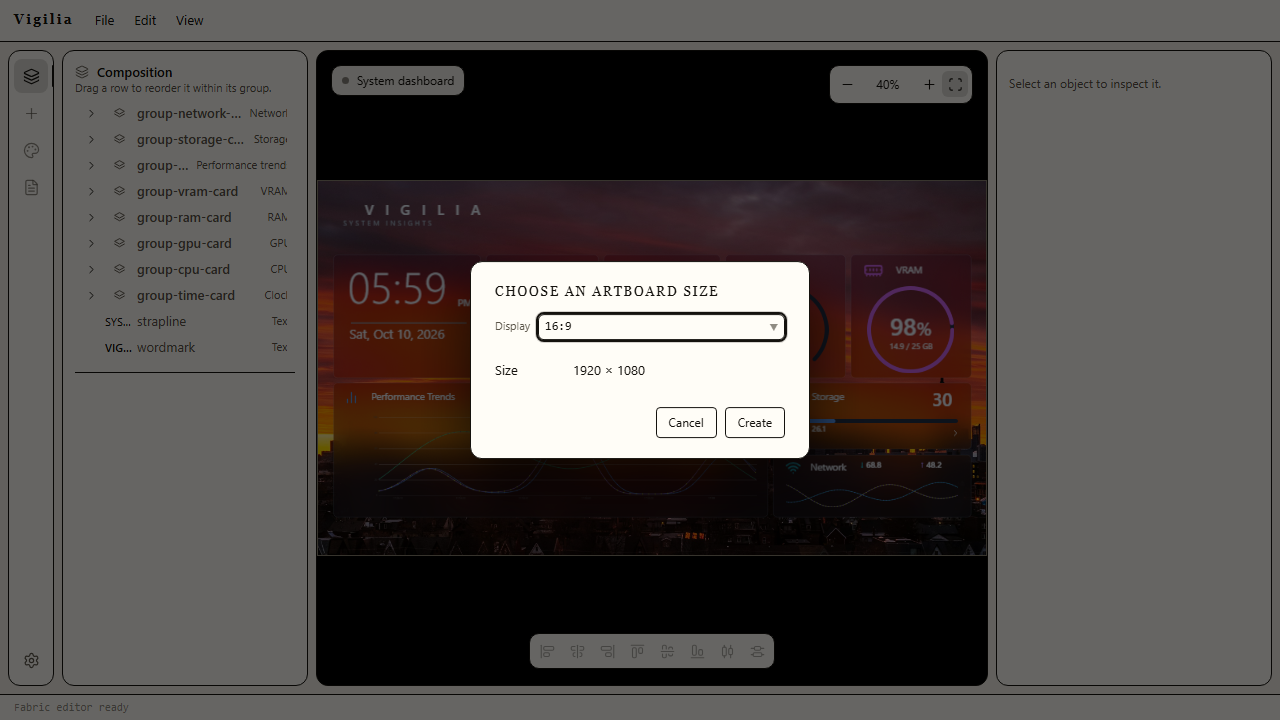
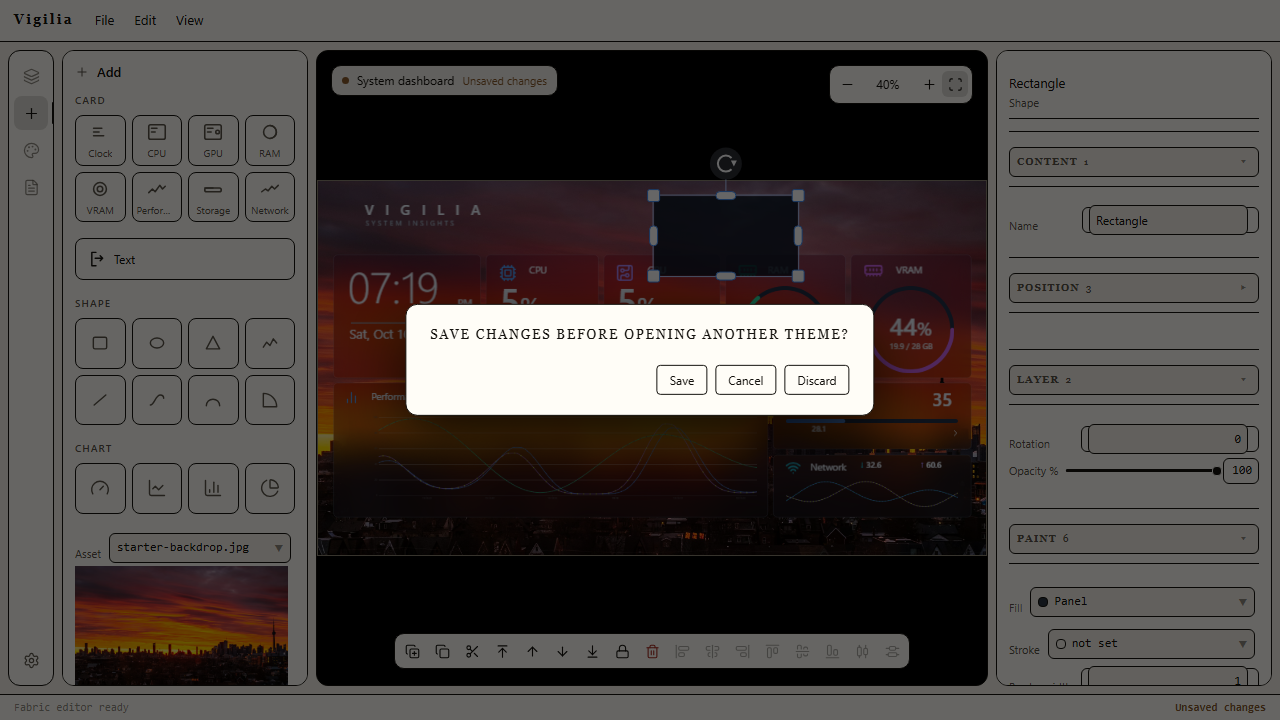
docs(evidence): the dialogs' three captures, over a stubbed library
The library chooser needs a library and `openLibrary` awaits `client.list()`
before it opens anything (`editor-session.ts:937`), so the capture answers
`**/api/themes` with `page.route` against the preview server instead of
starting the real host. The list is opened in the capture, which is what makes
the stub visible as the chooser's own two groups.

Both new captures and the rebaked one were inspected, not merely produced:

- `editor-new-document-chooser` — "CHOOSE AN ARTBOARD SIZE", the `Display`
  `ControlSelect` reading `16:9`, the `Size 1920 × 1080` readout, Cancel /
  Create.
- `editor-library-chooser` — "OPEN A THEME" with the list open on `TEMPLATES`
  (Starter — System dashboard) and `YOUR THEMES` (Graphite desk
  (graphite-desk), Editorial wall (editorial-wall)), and Delete disabled with
  a template selected.
- `editor-dirty-replacement` — rebaked, and it now shows
  "SAVE CHANGES BEFORE OPENING ANOTHER THEME?" with Save / Cancel / Discard.

**The dirtying had to change with it, and that is the interesting part.** The
old spec `set("left", 64)` on a Fabric object through the window global: that
reaches the canvas and not the session's snapshot, so `persistence.isDirty`
stayed false and the capture had nothing of its own to photograph — which is
why the registered image was the size chooser. Both captures now dirty the
document by inserting a shape through the Add pane, which is the session's own
[…]

diff --git a/src/web/tests/e2e/editor.spec.ts b/src/web/tests/e2e/editor.spec.ts
@@ -17,6 +17,7 @@ import {
   typeIntoControl,
 } from "./control-set.js";
 import {
+  answerDialogIfShown,
   type ArtboardRect,
   captureVisualReview,
   chooseAssetFile,
@@ -1984,26 +1985,94 @@ test.describe("Fabric editor route", () => {
     test.skip(!isDesktopSurface(testInfo), "the editor is a desktop surface");
 
     await page.goto(EDITOR);
-    await page.evaluate(() => {
-      const editor = Object.entries(
-        window as unknown as Record<string, unknown>,
-      ).find(([key]) => key.startsWith("vigilia-fabric-editor-"))?.[1] as
-        | {
-            canvas: {
-              item(
-                index: number,
-              ): { set(key: string, value: number): void } | undefined;
-              requestRenderAll(): void;
-            };
-          }
-        | undefined;
-      editor?.canvas.item(1)?.set("left", 64);
-      editor?.canvas.requestRenderAll();
-    });
+    // **An authoring act, not a canvas write.** The guard asks
+    // `persistence.isDirty`, which compares the session's snapshot against what
+    // it last saved; setting a Fabric property through the global reaches the
+    // canvas and not the snapshot, so a `set("left", 64)` here left the document
+    // as saved as it started and New asked nothing. Inserting a shape is the
+    // session's own path and is what actually makes the document dirty.
+    await openPane(page, "Add");
+    await insertShape(page, "Rectangle");
+
     await page.keyboard.press("Control+n");
-    await expect(page.locator('[role="dialog"]')).toBeVisible();
+    // New asks the size first (`editor-session.ts:979`), then this.
+    await expect(
+      page.locator('[role="dialog"]', { hasText: "Choose an artboard size" }),
+    ).toBeVisible();
+    await page.locator("[data-vigilia-new-document-create]").click();
+    await expect(
+      page.locator('[role="dialog"]', {
+        hasText: "Save changes before opening another theme?",
+      }),
+    ).toBeVisible();
 
     await captureVisualReview(page, testInfo, "editor-dirty-replacement");
+  });
+
+  test("captures the new-document chooser's own surface for visual review", async ({
+    page,
+  }, testInfo) => {
+    test.skip(!isDesktopSurface(testInfo), "the editor is a desktop surface");
+
+    await page.goto(EDITOR);
+    await page.keyboard.press("Control+n");
+    // The size chooser is the first of New's two questions, and the surface the
+    // conversion rewrote: it was a `<dialog>` of `<select>`s and is a Base UI
+    // `Dialog` of `ControlSelect`s now. **This capture is why the row above
+    // stayed as it was** — `editor-dirty-replacement` matched this same first
+    // dialog before the conversion too, so its image was always the chooser.
+    await expect(
+      page.locator('[role="dialog"]', { hasText: "Choose an artboard size" }),
+    ).toBeVisible();
+
+    await captureVisualReview(page, testInfo, "editor-new-document-chooser");
+  });
+
+  test("captures the theme-library chooser over a stubbed library for visual review", async ({
+    page,
+  }, testInfo) => {
+    test.skip(!isDesktopSurface(testInfo), "the editor is a desktop surface");
+
+    // **A stubbed library, not the real host.** `openLibrary` awaits
+    // `client.list()` before it opens anything (`editor-session.ts:937`), so on
+    // the preview server the chooser never appears at all. The stub answers the
+    // one request the chooser makes, and the list, the two groups and the delete
+    // control that follows a selection are all the real component's.
+    await page.route("**/api/themes", (route) =>
+      route.fulfill({
+        json: {
+          themes: [
+            { id: "graphite-desk", name: "Graphite desk", updatedAt: "" },
+            { id: "editorial-wall", name: "Editorial wall", updatedAt: "" },
+          ],
+        },
+      }),
+    );
+    await page.goto(EDITOR);
+    // Dirty by an authoring act first, for the reason the replacement capture
+    // gives. An untouched starter is *not* dirty: File → Open library would ask
+    // nothing, and `answerDialogIfShown` would then find the chooser's own
+    // dialog and spend its budget waiting inside it for a Discard button.
+    await openPane(page, "Add");
+    await insertShape(page, "Rectangle");
+
+    await page.getByRole("button", { name: "File", exact: true }).click();
+    await page.getByRole("menuitem", { name: "Open library" }).click();
+    await answerDialogIfShown(page, "Discard");
+    const chooser = page.locator('[role="dialog"]', {
+      hasText: "Open a theme",
+    });
+    await expect(chooser).toBeVisible();
+
+    // The list is opened as well, because the two groups are the chooser's whole
+    // design point and the stub is only visible through them: the product's
+    // template under `Templates`, the author's own under `Your themes`.
+    await chooser.locator("[data-vigilia-library-theme]").click();
+    await expect(
+      page.locator('[role="option"][data-vigilia-option="graphite-desk"]'),
+    ).toBeVisible();
+
+    await captureVisualReview(page, testInfo, "editor-library-chooser");
   });
 
   test("selects a chart in the starter theme through the visible Fabric canvas", async ({

diff --git a/docs/evidence/screenshots/README.md b/docs/evidence/screenshots/README.md
@@ -47,8 +47,9 @@ result, not merely a mounted editor.
 | Artboard | Change dimensions or preview fit | `editor-artboard` / `captures changed artboard controls` |
 | Artboard | Change gradient/literal artboard paint | `editor-artboard-gradient` / `renders palette gradients` |
 | Session | Show dirty New/Open confirmation | `editor-dirty-replacement` / `captures dirty document replacement confirmation` |
+| Session | Ask New's size before the replacement question | `editor-new-document-chooser` / `captures the new-document chooser's own surface` |
 | Open | Valid, invalid or incompatible file | add when changed |
-| Open library | Show the editor's theme-library chooser | none yet — the session lists the library before it opens the chooser, so the capture needs the real host rather than the preview server |
+| Open library | Show the editor's theme-library chooser, both groups open | `editor-library-chooser` / `captures the theme-library chooser over a stubbed library` — the spec answers `**/api/themes` with `page.route`, because `openLibrary` awaits `client.list()` before it opens anything |
 | History | Save changed document or undo visible drag | add when changed |
 | Editor mechanics | Transform/group/duplicate/delete/reorder | `editor-snap-guides` / `snaps a dragged object`; `editor-snap-resize` / `snaps a resized object`; `editor-snap-resize-ctrl` / `Ctrl-resizes near a neighbour without snapping or showing a guide`; `editor-rotation-indicator` / `rotation-angle indicator`; `editor-toolbar` / `captures the canvas dock over a selected object`; `editor-canvas-context-menu` / `captures the canvas context menu over a selected object` |
 | Object tools | Add/edit shape, text, image or SVG | `editor-arc-and-wedge` / `captures an arc and a wedge on the canvas` |
